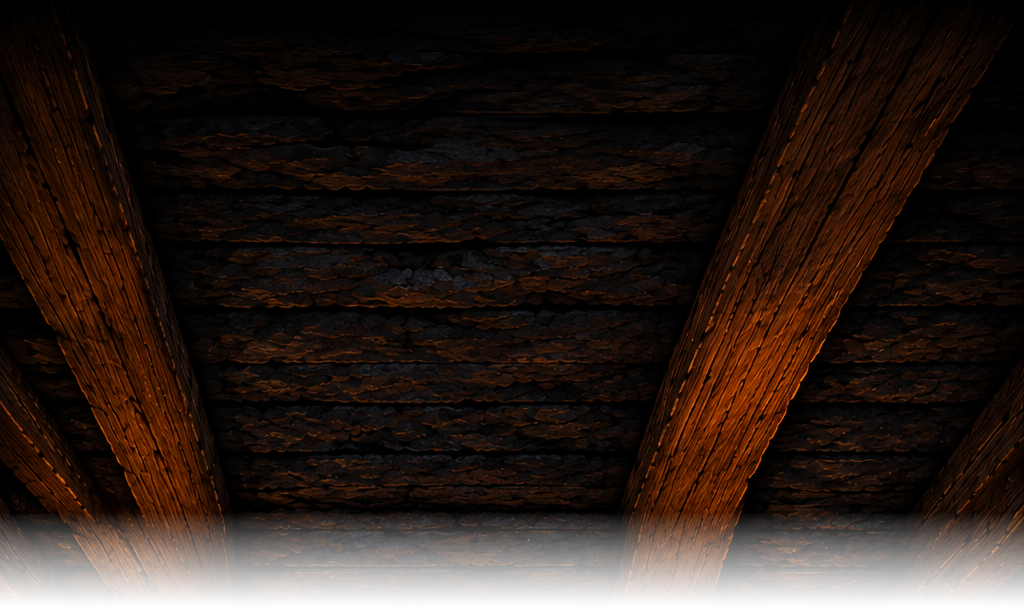
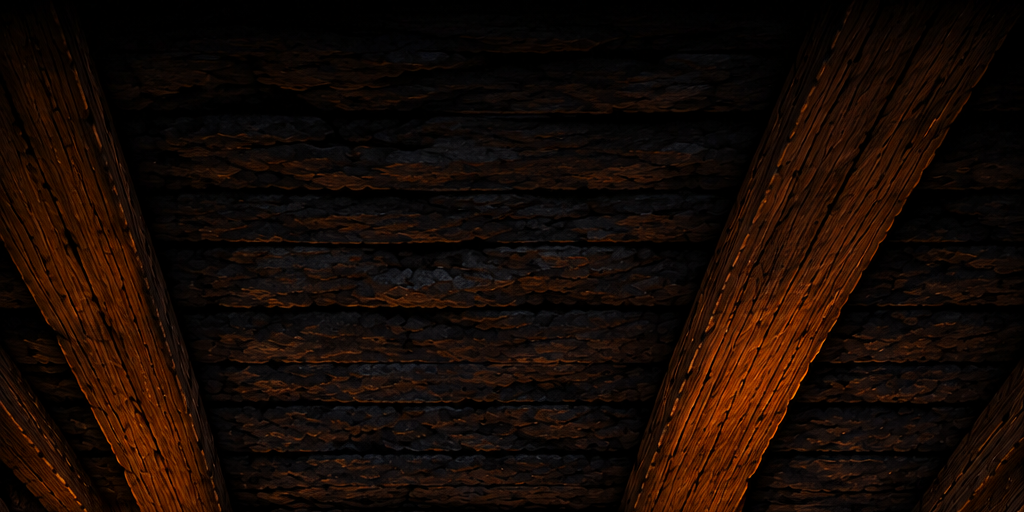
Кабинет: потолок без шва — верх комнаты и потолок из одной картинки GPT, с исходной сведены на полу

diff --git a/CLAUDE.md b/CLAUDE.md
@@ -59,7 +59,7 @@
 - Экран загрузки (`screens/boot.gd`): анимация камня из файла, прогрев шейдеров, фоновая загрузка.
 
 ## Что дальше
-- 15.11 (`fixes`), **кабинет (Inventory): над комнатой дорисован потолок**: была тёмная полоса под верхним баром. GPT продолжил исходную комнату вверх — «просто дорисуй сверху, ничего нового» (`art/ui_redesign/cabinet/ceiling/`: `in.png` — комната, сдвинутая вниз, с пурпурной полосой; выбран `out_b.png`; первый заход с цепью и крюком `out_a` и увеличение комнаты под бар отклонены), верх — `assets/cabinet/room_top.png` (512 px + 96 px растушёвки поверх верха комнаты), `Cabinet._draw_ceiling` рисует его за баром до края экрана, поверх верха комнаты (под комнатой растушёвка закрывалась и был шов); масштаб комнаты прежний. До/после — `art/cabinet_ceiling_ba.png`. На iPhone не проверено.
+- 15.11 (`fixes`), **кабинет (Inventory): над комнатой дорисован потолок**: была тёмная полоса под верхним баром. GPT продолжил исходную комнату вверх — «просто дорисуй сверху, ничего нового» (`art/ui_redesign/cabinet/ceiling/`: `in.png` — комната, сдвинутая вниз, с пурпурной полосой; выбран `out_b.png`; первый заход с цепью и крюком `out_a` и увеличение комнаты под бар отклонены), GPT перерисовал и саму комнату чуть иначе (разница по всей высоте — на любом стыке шов), поэтому верх комнаты (`room.png`, строки 0–900) теперь — его перерисовка, сведённая с исходной на полу (900–1020, под верстаком), а потолок над ней — `room_top.png` (512 px, та же картинка GPT — стыка нет); исходная — `art/ui_redesign/cabinet/ceiling/room_orig.png`. `Cabinet._draw_ceiling` рисует потолок за баром до края экрана и обрезанные рамкой комнаты верхние строки её картинки; масштаб комнаты прежний. До/после — `art/cabinet_ceiling_ba.png`. На iPhone не проверено.
 - 15.11 (`fixes`), **окно перед боем с боссом** (по просьбе: купить спецфишки перед боем): кнопка Fight (в окне глубины и в списке задач) открывает окно `Home._boss_panel` — имя и титул босса, глубина, ряд спецфишек как в окне уровня (подарки серии «free», свои «have N», покупка за монеты; общий `Home._pre_row`, списание — `_pre_take`), кнопки Fight / Back. Затем окно — своё, не как у уровня: в шапке слева медальон босса (справа имя, титул, глубина — по центру одиноко оставлял пустые бока; шапка и подсказка по левому краю) (`BossMedal`: знак из атласа даже до победы, 3 гнезда, рубин в каждом пройденном уровне сложности, пустые вспыхивают), имя — над латунной чертой гена (`Reveal.chip`), кнопка Fight рубиновая — новая рамка `btn_ruby` (зелёная, перекрашенная в рубин с поля: `py art/ui_kit/emerald_face.py btn_green.png gems_kit/faceted/ruby.png btn_ruby.png 0.18 0.7 0.0 1.3 0.03`; `Ov.btn(..., "ruby")`), ею же Fight в окне глубины, списке задач и Fight again в атласе. Снимок — `art/boss_panel.png`, ключи `-- save=btest streak=3 screen=home quiet ui=fight_boss ui_after=2 ["tap=193,405;195,495"]`. На iPhone не проверено.
 - 15.11 (`fixes`), **фонарь окна уровня больше не появляется раньше окна**: он висел на держателе окна, а окно проявлялось и росло само (`Ov.card`), так что фонарь был виден сразу. Теперь `KitLantern.follow` — карточка окна: каждый кадр берёт её прозрачность и масштаб, крючок двигается вместе с ней (проверено печатью по кадрам: прозрачность совпадает с 0,10 до 1). На iPhone не проверено.
 - 15.11 (`fixes`), **подарки серии в бою с боссом, здоровье боссов +5%** (плейтест: на Полоза — ни одной спецфишки, несмотря на серию): кнопка боя (`Home._fight_boss`, с 25.10) запускала бой с пустым списком, мимо окна уровня, которое раздаёт подарки (серия появилась 31.10). Теперь спецфишки серии кладутся как на любом уровне (покупных перед боем по-прежнему нет — окна нет). Замер урона за первую доску (`sim_boss=16 smart sim_first sim_hp=99999 streak=N` — новые ключи `sim_first`, `sim_hp` в `SimEconomy.boss_report`; 16 боёв, ~2,5 мин на 4 процесса): серия 3 (динамит) — в пределах шума (−6…+10%), серия 10 — Полоз +14%, Хозяйка +15%, Кракен +15%, Brontes +2%. Здоровье +5% (серединка): Полоз 2250 → 2370, Хозяйка 1980 → 2080, Кракен 2550 → 2680, Brontes 2760 → 2900; повторы боссов (×1,35/×1,7) — от них. Доля побед по 16 боям слишком шумная (у Полоза 63% без подарков и 38% с динамитом) — не мерил. Внимание: симуляции, запущенные фоном (`run_in_background`), Windows душит до ~7% ядра — гонять на переднем плане. На iPhone не проверено.
